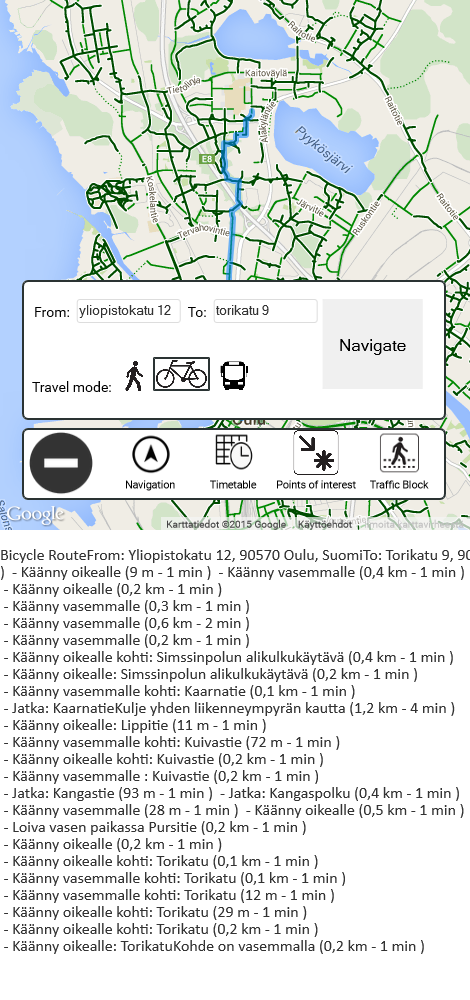
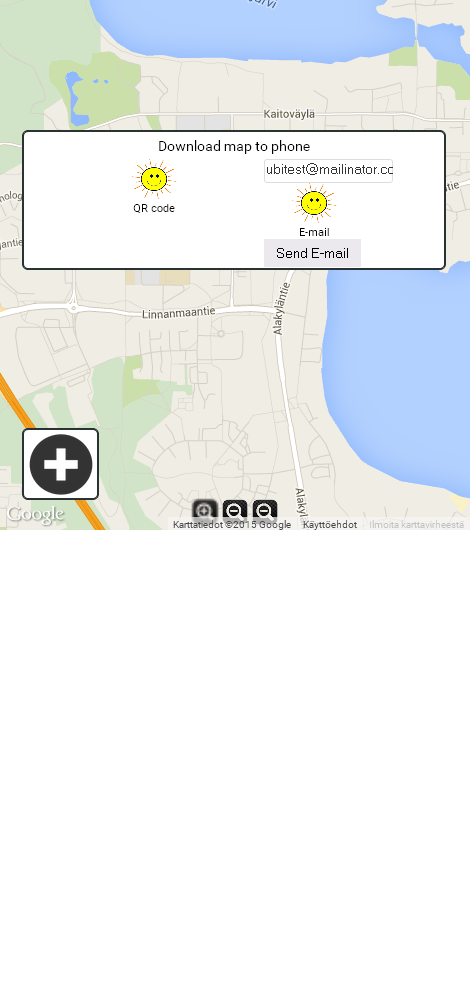
Email and QR code functionalities working, still some css stuff to do

diff --git a/javascript/ubitraffic_menu.js b/javascript/ubitraffic_menu.js
@@ -1025,6 +1025,59 @@ function menu(map)
 	});
 	$zoom_menu.append($zoomout_menu);
 	
+	// download button
+	var $download_menu = $(document.createElement('DIV'));
+	$download_menu.attr("id", "download_menu");
+	$download_menu.attr("style", "float:left;");
+	$download_menu.html("<img style='' width='30px;' src='images/zoom_out.png' />");
+	google.maps.event.addDomListener($download_menu.get(0), 'click', function() {		
+		if($('#download_div').css('display') == 'none')
+			$('#download_div').css('display', 'inline');
+		else
+			$('#download_div').css('display', 'none');
+		
+	});
+	$zoom_menu.append($download_menu);
+	
+	//download div
+	var $download_div = $(document.createElement('DIV'));
+	$download_div.attr('id', 'download_div');
+	$download_div.attr("style", "font-size:14px; display:none;position:absolute;margin-left:-50px;bottom:260px;border:2px solid;border-color: #2a3333;border-radius: 6px;background-color: white;width:420px;height:136px;");
+	$download_div.html("<center style='margin-top:5px;'>Download map to phone</center>");
+	$innerContainer.append($download_div);
+	
+	//qr code div
+	var $qrcode_div = $(document.createElement('DIV'));
+	$qrcode_div.attr("id", "qrcode_div");
+	$qrcode_div.attr("class", "button");
+	$qrcode_div.attr("style", "margin-left:80px;width:100px;margin-top:5px;");
+	$qrcode_div.html("<center><img src='images/weather_sign.png' style='height:40px;' width='40px' /><div>QR code</div></center>");
+	google.maps.event.addDomListener($qrcode_div.get(0), 'click', function() {
+		downloadToPhone("QR");
+	});
+	$download_div.append($qrcode_div);	
+	
+	//e-mail div
+	var $email_div = $(document.createElement('DIV'));
+	$email_div.attr("id", "email_div");
+	$email_div.attr("class", "button");
+	$email_div.attr("style", "margin-left:60px;width:100px;margin-top:5px;");
+	$email_div.html("<center><input id='email_input' class='text_box' value='' style='width:125px;'></input><img src='images/weather_sign.png' style='height:40px;' width='40px' /><div>E-mail</div></center>");
+	
+	$email_button = $(document.createElement("button"));
+	$email_button.attr("id", "email_button");
+	$email_button.attr("style", "height:28px;");
+	$email_button.html("Send E-mail");
+	$email_div.append($email_button);	
+	google.maps.event.addDomListener($email_button.get(0), 'click', function() {
+		downloadToPhone("Email");
+	});
+	//var $email_input = $(document.createElement('input'));
+	
+	$download_div.append($email_div);	
+	
+	
+	
 	// Insert menu to map
 	$container.append($innerContainer);
 	map.controls[google.maps.ControlPosition.BOTTOM_LEFT].push($container.get(0));

diff --git a/big_panel_map.php b/big_panel_map.php
@@ -27,6 +27,7 @@
 	
 	<script src="javascript/ubitraffic_traffic_places.js" type="text/javascript"></script>
 	<script src="javascript/ubitraffic_menu.js" type="text/javascript"></script>
+	<script src="javascript/html2canvas.js" type="text/javascript"></script>
 	
 	<style>
 		document
@@ -159,6 +160,7 @@
 			$("#start_place").keyboard();
 			$("#destination").keyboard();
 			$("#bus_number").keyboard();
+			$("#email_input").keyboard();
 			setInterval(function(){
 				$( "a" ).each(function( index ) {
 					if ($( this ).attr('title')=='Report errors in the road map or imagery to Google')
@@ -170,7 +172,7 @@
 					
 				});
 				$( "span" ).each(function( index ) {
-					console.log($( this ).html());
+					//console.log($( this ).html());
 					if ($( this ).html()=='Map data ©2015 Google')
 						$( this ).css('display', 'none');
 				});
@@ -347,6 +349,169 @@
 			}
 		});
 	}
+	
+	//download map to phone
+	function downloadToPhone(selection)
+	{		
+		//get transform value
+		var transform=$("#map_panel").css("transform")
+		var comp=transform.split(",") //split up the transform matrix
+		var mapleft=parseFloat(comp[4]) //get left value
+		var maptop=parseFloat(comp[5])  //get top value
+		$("#map_panel").css({ //get the map container. not sure if stable
+		  "transform":"none",
+		  "left":mapleft,
+		  "top":maptop,
+		})
+		
+		//convert google map to canvas and save it as image
+		html2canvas($('#map_panel'),
+		{
+		  useCORS: true,
+		  onrendered: function(canvas)
+		  {
+		
+			//Insert info text to canvas
+			var ctx=canvas.getContext("2d");			
+			
+			var maxWidth = 470;
+			var lineHeight = 17;
+			var x = (canvas.width - maxWidth) / 2;
+			var y = 560;
+			var text = document.getElementById('info_panel').textContent;
+
+			ctx.font = '12pt Calibri';
+			ctx.fillStyle = '#333';
+
+			wrapText(ctx, text, x, y, maxWidth, lineHeight);
+			
+			
+			//show canvas in page (can be removed later)
+			//document.body.appendChild(canvas);
+			
+			//hold the data to save canvas as image
+			var screenshot ={};			
+			
+			screenshot.img = canvas.toDataURL( "image/png" );
+			screenshot.data = { 'image' : screenshot.img };
+			
+			//call savePNG to save the image to /images/png/[name].png
+            $.ajax({
+                type: "POST",
+                url: "savePNG.php",
+                data: screenshot.data,
+                success : function(data)
+                {
+                    //console.log("screenshot done "+data);
+                }
+            }).done(function() {
+                //$('body').html(data);
+            });
+
+			//set transform back
+			$("#map_panel").css({
+			  left:0,
+			  top:0,
+			  "transform":transform
+			})
+		  },
+		  height: 1000
+		});
+		
+		
+		if(selection == "QR")
+		{
+			setTimeout(createQR,1000);
+			//createQR();
+		}
+		else if(selection == "Email")
+		{
+			setTimeout(sendEmail,1000);
+			//sendEmail();
+		}
+		
+	}
+	
+	//create qr code
+	function createQR()
+	{
+		//create qr code
+		var source = "https://chart.googleapis.com/chart?cht=qr&chl=";
+		
+		var image;	
+		if( !document.getElementById('QRcode')){
+			image = document.createElement("img");
+			image.id = "QRcode";
+		}
+		else
+		{
+			image = document.getElementById('QRcode');
+		}
+		
+		
+		//create url for the image
+		var imgUrl = window.location.href.substring(0, window.location.href.lastIndexOf('/'))+"/images/png/testing.png";
+		image.src = source+encodeURIComponent(imgUrl)+"&chs=180x180";
+		image.style = "position:absolute; margin-left:40%;width:100px;margin-top:45%;";
+		//show it to user
+	/*	var closeB = document.createElement("span");
+		closeB.id = "close";
+		closeB.innerHTML = "x";
+		closeB.style = "float:right; display:inline-block; padding: 2px 5px; background: #ccc;";
+		$('#QRcode').append(closeB);
+	*/		
+		
+		$('#map_panel').append(image);
+		//console.log(""+image.src);						
+	}
+	
+	//create email
+	function sendEmail()
+	{
+		var emailaddr = $("#email_input").val();
+		
+		var emaildata = "dest="+emailaddr;
+		
+		
+		//var emaildata = "filename=testing.png&path=/images/png";
+		
+		
+		console.log("Sending email");
+		$.ajax({
+                type: "POST",
+                url: "sendMail.php",
+                data: emaildata,
+                success : function(data)
+                {
+                    console.log("email done "+data);
+                }
+            }).done(function() {
+                //$('body').html(data);
+            });
+		
+	}
+	
+	
+	//wrap text to fit to canvas
+	function wrapText(context, text, x, y, maxWidth, lineHeight) {
+		var words = text.split(/([)])/);
+        var line = '';
+
+        for(var n = 0; n < words.length; n++) {
+			var testLine = line + words[n] + ' ';
+			var metrics = context.measureText(testLine);
+			var testWidth = metrics.width;
+			if (testWidth > maxWidth && n > 0) {
+				context.fillText(line, x, y);
+				line = words[n] + ' ';
+				y += lineHeight;
+			}
+			else {
+				line = testLine;
+			}
+        }
+        context.fillText(line, x, y);
+    }
 	
 	
     </script>
